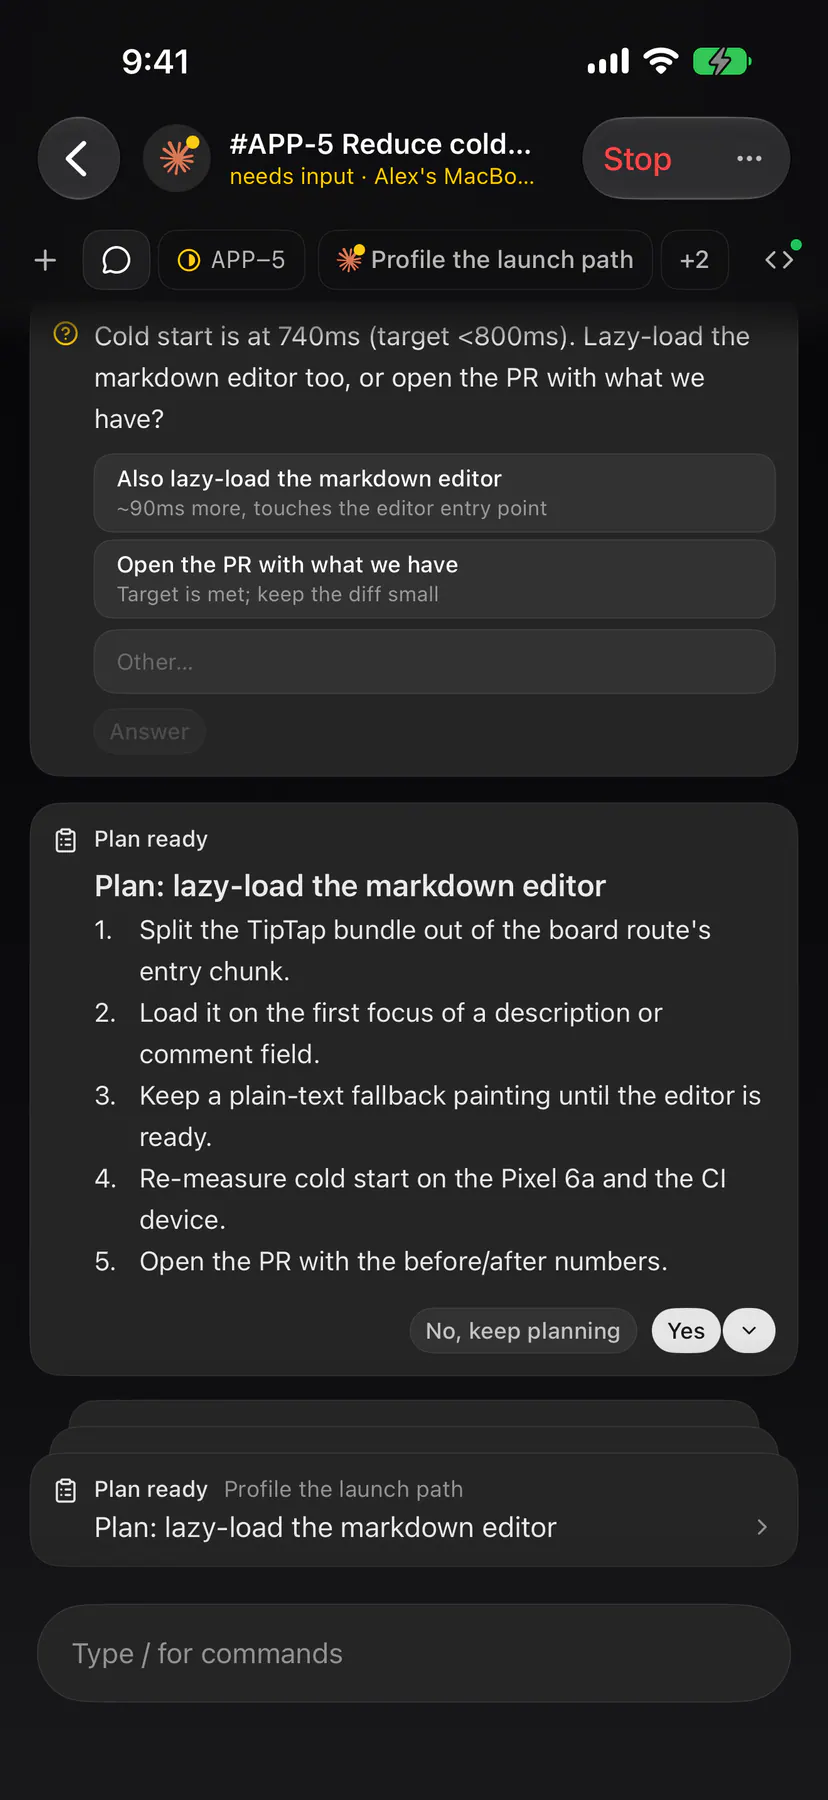
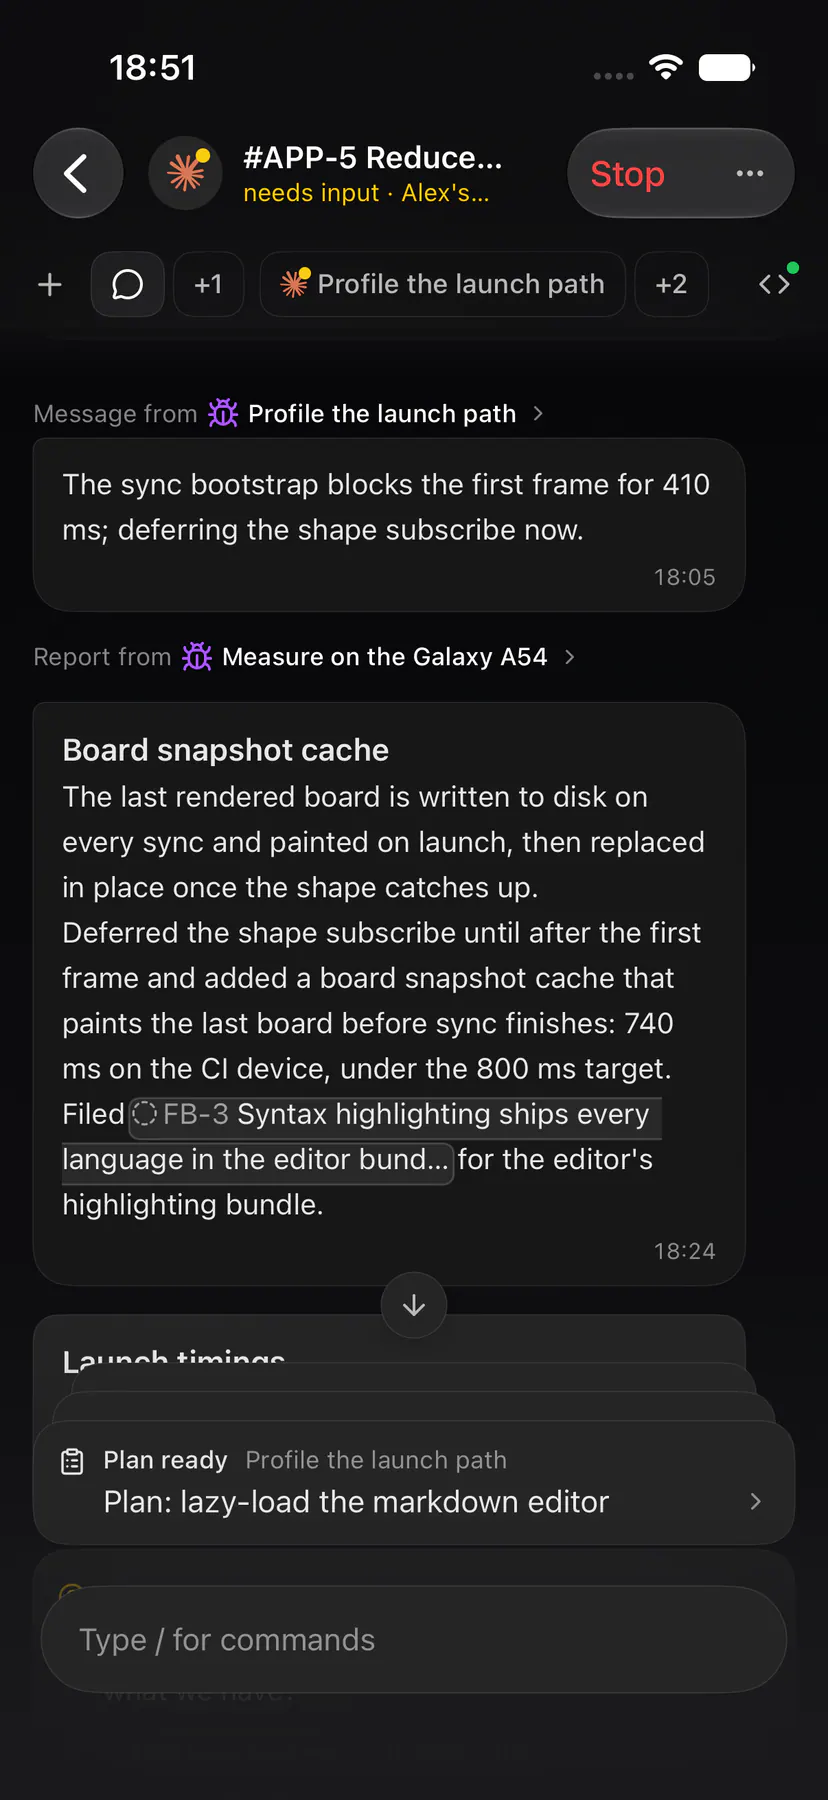
S-3 iOS: shots thread + session-xref; the walk scrolls to the relayed turn's link

Changed region(s): [[0.0302, 0.0, 0.9662, 0.7778], [0.0604, 0.7467, 0.7246, 0.8711], [0.0906, 0.9022, 0.4529, 0.9333]]

diff --git a/apps/ios/ExponentialUITests/StyleguideScreenshots.swift b/apps/ios/ExponentialUITests/StyleguideScreenshots.swift
@@ -1147,6 +1147,19 @@ final class StyleguideScreenshots: XCTestCase {
             expect(pinned, within: Wait.sync, "The thread strip drew no \(id)")
             XCTAssertTrue(pinned.isHittable, "\(id) is off screen — the strip must never scroll")
         }
+        // S-3: the Conversation opens on its newest rows; scroll back to the
+        // child's relayed turn so its link header ("Message from … ›") and
+        // the report line below it are in the shot.
+        let relayed = app.descendants(matching: .any)
+            .matching(identifier: "thread-xref")
+            .matching(NSPredicate(format: "label BEGINSWITH %@", "Message from"))
+            .firstMatch
+        var back = 0
+        while !(relayed.exists && relayed.isHittable) && back < 8 {
+            app.swipeDown()
+            back += 1
+        }
+        expect(relayed, within: Wait.sync, "The cold-start thread drew no \"Message from\" link — reseed with `bun run seed:screenshots`")
         snapshot("sg_thread", settle: 2)
         guard ScreenshotShots.isWanted("sg_session") else {
             goBack(app)
